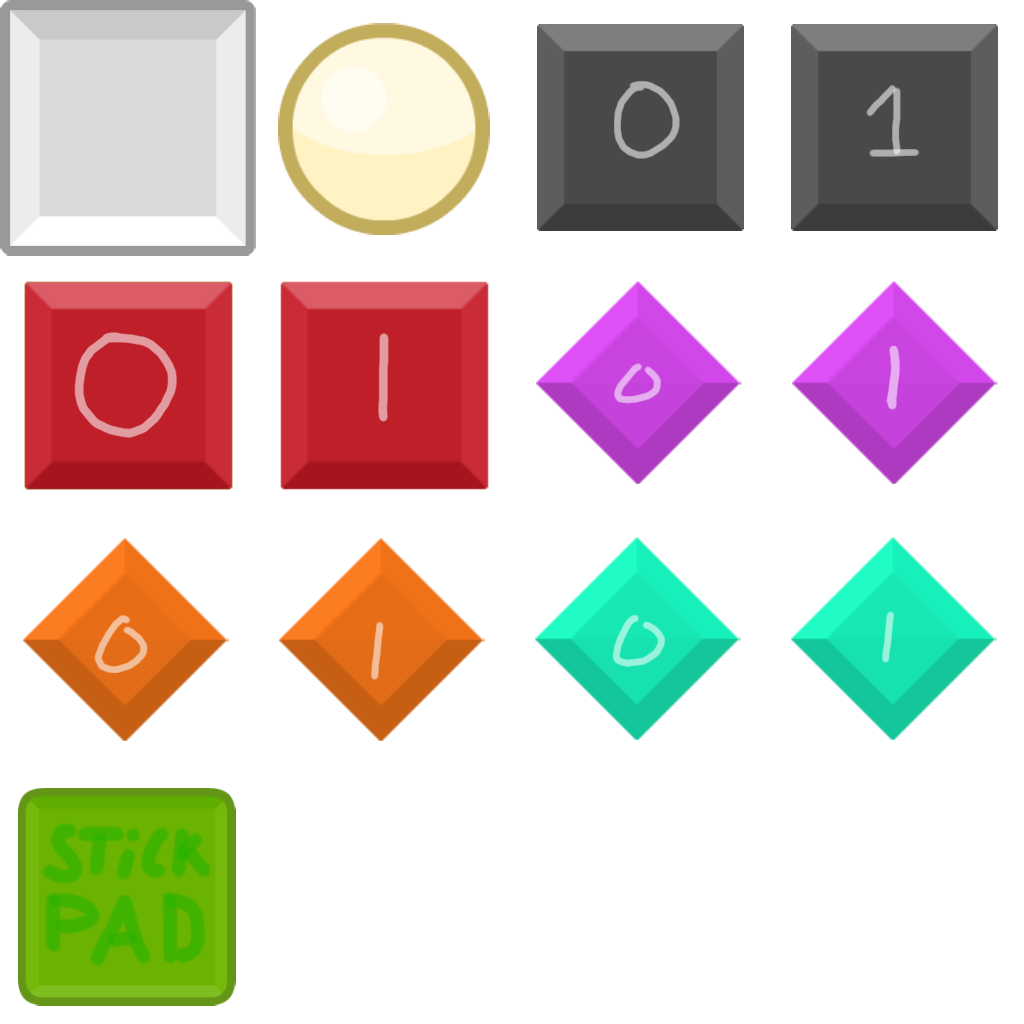
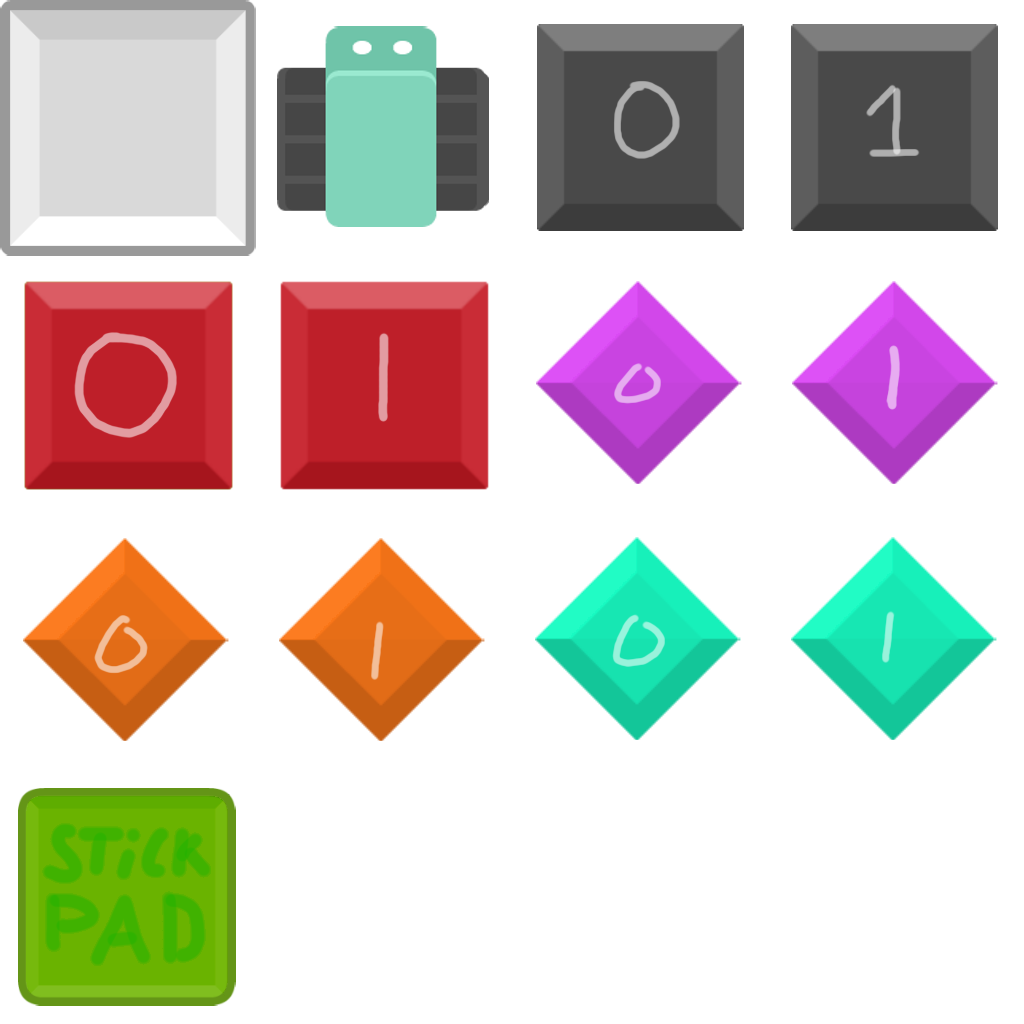
added block joining / untested block breaking

Changed region(s): [[0.25, 0.0, 0.5, 0.25]]

diff --git a/sokoswitch/core/src/sokoswitch/game/screens/PuzzleScreen.java b/sokoswitch/core/src/sokoswitch/game/screens/PuzzleScreen.java
@@ -15,11 +15,12 @@ import sokoswitch.game.level.*;
 
 public class PuzzleScreen extends ScreenAdapter{
 
+	private Sokoswitch game;
+	
 	private int levelId;
 	private boolean cameraCentered;
 	private Stack<Integer> keysPressed;
 	private GameLevel gameLevel;
-	private Sokoswitch game;
 
 	public PuzzleScreen(Sokoswitch game, int levelId) {
 		this.game = game;
@@ -101,17 +102,14 @@ public class PuzzleScreen extends ScreenAdapter{
 			game.camera.translate(-Gdx.input.getDeltaX()*3, Gdx.input.getDeltaY()*3);
 		}*/
 		if(Gdx.input.justTouched()) {
-			Vector3 clickPos = game.viewport.unproject(new Vector3(Gdx.input.getX(),Gdx.input.getY(), 0));
+			resetLevel();
+			
+			/*Vector3 clickPos = game.viewport.unproject(new Vector3(Gdx.input.getX(),Gdx.input.getY(), 0));
 			Tiles type = gameLevel.locateTilesByPosition(2, clickPos.x, clickPos.y);
 			gameLevel.getPlayer(0).setPosition((int)clickPos.x/Tiles.SIZE, (int)clickPos.y/Tiles.SIZE);
 			System.out.println(clickPos.x + "," + clickPos.y +"\t");
-			System.out.println(type.getId() + " : " + type.getName());
+			System.out.println(type.getId() + " : " + type.getName());*/
 		}
-	}
-
-	@Override
-	public void resize(int width, int height) {
-		game.viewport.update(width, height, false); 
 	}
 
 	@Override

diff --git a/sokoswitch/core/src/sokoswitch/game/level/GameLevel.java b/sokoswitch/core/src/sokoswitch/game/level/GameLevel.java
@@ -10,9 +10,7 @@ import com.badlogic.gdx.maps.tiled.renderers.OrthogonalTiledMapRenderer;
 import com.badlogic.gdx.math.Vector2;
 
 import sokoswitch.game.entities.*;
-import sokoswitch.game.entities.blocks.Block;
-import sokoswitch.game.entities.blocks.BlockWrapper;
-import sokoswitch.game.entities.blocks.NormalBlock;
+import sokoswitch.game.entities.blocks.*;
 
 public class GameLevel extends Level{
 	
@@ -63,11 +61,15 @@ public class GameLevel extends Level{
 				Tiles t = locateTilesByCoordinate(2,x,y);
 				switch(t) {
 					case PLAYER:
-						players.add(new Player(x, y, xMax, yMax));
+						players.add(new Player(x, y));
 						break;
 					case BLOCK_OFF:
 					case BLOCK_ON:
-						pushable.add(new BlockWrapper(new NormalBlock(x, y, xMax, yMax, (t==Tiles.BLOCK_ON))));
+						pushable.add(new BlockWrapper(new NormalBlock(x, y, (t==Tiles.BLOCK_ON))));
+						break;
+					case LOCKED_BLOCK_OFF:
+					case LOCKED_BLOCK_ON:
+						pushable.add(new BlockWrapper(new LockedBlock(x, y, (t==Tiles.LOCKED_BLOCK_ON))));
 						break;
 					default:
 				}

diff --git a/sokoswitch/core/src/sokoswitch/game/entities/blocks/Block.java b/sokoswitch/core/src/sokoswitch/game/entities/blocks/Block.java
@@ -3,13 +3,13 @@ package sokoswitch.game.entities.blocks;
 import sokoswitch.game.entities.Entity;
 import sokoswitch.game.level.Tiles;
 
-public class Block extends Entity{
+public abstract class Block extends Entity{
 
 	protected boolean onState;
 	protected boolean pushed;
 	
-	public Block(int id, int x, int y, int xMax, int yMax, boolean onState) {
-		super(id, x, y, xMax, yMax);
+	public Block(int id, int x, int y, boolean onState) {
+		super(id, x, y);
 		this.onState = onState;
 		this.pushed = false;
 	}
@@ -20,10 +20,7 @@ public class Block extends Entity{
 		pushed = true;
 	}
 	
-	public void switchState() {
-		this.onState = !this.onState;
-		this.sprite = Tiles.getTilesById((onState) ? 4 : 3).getSprite();
-	}
+	public abstract void switchState();
 	
 	public boolean movePossible(int direction) {
 		return true;

diff --git a/sokoswitch/core/src/sokoswitch/game/entities/blocks/NormalBlock.java b/sokoswitch/core/src/sokoswitch/game/entities/blocks/NormalBlock.java
@@ -1,8 +1,16 @@
 package sokoswitch.game.entities.blocks;
 
+import sokoswitch.game.level.Tiles;
+
 public class NormalBlock extends Block{
 
-	public NormalBlock(int x, int y, int xMax, int yMax, boolean turnedOn) {
-		super((turnedOn) ? 4 : 3, x, y, xMax, yMax, turnedOn);
+	public NormalBlock(int x, int y, boolean turnedOn) {
+		super((turnedOn) ? 4 : 3, x, y, turnedOn);
+	}
+	
+	@Override
+	public void switchState() {
+		this.onState = !this.onState;
+		this.sprite = Tiles.getTilesById((onState) ? 4 : 3).getSprite();
 	}
 }

diff --git a/sokoswitch/core/src/sokoswitch/game/entities/blocks/LockedBlock.java b/sokoswitch/core/src/sokoswitch/game/entities/blocks/LockedBlock.java
@@ -1,0 +1,21 @@
+package sokoswitch.game.entities.blocks;
+
+import sokoswitch.game.level.Tiles;
+
+public class LockedBlock extends Block{
+
+	public LockedBlock(int x, int y, boolean turnedOn) {
+		super((turnedOn) ? 6 : 5, x, y, turnedOn);
+	}
+	
+	@Override
+	public void switchState() {
+		this.onState = !this.onState;
+		this.sprite = Tiles.getTilesById((onState) ? 6 : 5).getSprite();
+	}
+	
+	@Override
+	public boolean switchPossible(int direction) {
+		return false;
+	}
+}

diff --git a/sokoswitch/core/src/sokoswitch/game/entities/Entity.java b/sokoswitch/core/src/sokoswitch/game/entities/Entity.java
@@ -8,15 +8,12 @@ import sokoswitch.game.level.Tiles;
 public abstract class Entity {
 
 	protected int x, y;
-	protected int xMax, yMax;
 	protected Sprite sprite;
 	
-	public Entity(int id, int x, int y, int xMax, int yMax) {
+	public Entity(int id, int x, int y) {
 		this.sprite = Tiles.getTilesById(id).getSprite();
 		this.x = x;
 		this.y = y;
-		this.xMax = xMax;
-		this.yMax = yMax;
 	}
 	
 	public void dispose() {

diff --git a/sokoswitch/core/src/sokoswitch/game/screens/MenuScreen.java b/sokoswitch/core/src/sokoswitch/game/screens/MenuScreen.java
@@ -33,10 +33,10 @@ public class MenuScreen extends ScreenAdapter{
 		}
 		Gdx.gl.glClearColor(.45f, 0.1f*testNum, .45f, 1);
 		Gdx.gl.glClear(GL20.GL_COLOR_BUFFER_BIT);
-		
-		if(Gdx.input.isKeyJustPressed(Input.Keys.ENTER)) {
+		gsm.showPuzzleScreen(4);
+		/*if(Gdx.input.isKeyJustPressed(Input.Keys.ENTER)) {
 			gsm.showPuzzleScreen(testNum);
-		}
+		}*/
 	}
 
 	@Override

diff --git a/sokoswitch/core/src/sokoswitch/game/entities/Player.java b/sokoswitch/core/src/sokoswitch/game/entities/Player.java
@@ -9,8 +9,8 @@ public class Player extends Entity{
 	/*if the player can move into the direction it's facing*/
 	private boolean mobile;
 	
-	public Player(int x, int y, int xMax, int yMax) {
-		super(2, x, y, xMax, yMax);
+	public Player(int x, int y) {
+		super(2, x, y);
 		this.facing = 0;
 		this.mobile = true;
 	}

diff --git a/sokoswitch/core/src/sokoswitch/game/level/LevelPath.java b/sokoswitch/core/src/sokoswitch/game/level/LevelPath.java
@@ -10,7 +10,7 @@ public final class LevelPath {
 		levelPath.put(1, "01.tmx");
 		levelPath.put(2, "05.tmx");
 		levelPath.put(3, "03.tmx");
-		levelPath.put(4, "c-1.tmx");
+		levelPath.put(4, "e.tmx");
 		levelPath.put(5, "testing.tmx");
 		levelPath.put(6, "disconnect.tmx");
 	}

diff --git a/sokoswitch/core/src/sokoswitch/game/Sokoswitch.java b/sokoswitch/core/src/sokoswitch/game/Sokoswitch.java
@@ -54,7 +54,7 @@ public class Sokoswitch extends Game {
 	
 	@Override
 	public void resize(int width, int height) {
-		screen.resize(width, height);
+		viewport.update(width, height, false); 
 	}
 	
 	public void testing() {
